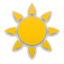
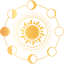
added moon data

diff --git a/actions/get_moonphase.py b/actions/get_moonphase.py
@@ -1,0 +1,19 @@
+"""
+Copyright 2016 Brocade Communications Systems, Inc.
+Licensed under the Apache License, Version 2.0 (the "License");
+you may not use this file except in compliance with the License.
+You may obtain a copy of the License at
+    http://www.apache.org/licenses/LICENSE-2.0
+Unless required by applicable law or agreed to in writing, software
+distributed under the License is distributed on an "AS IS" BASIS,
+WITHOUT WARRANTIES OR CONDITIONS OF ANY KIND, either express or implied.
+See the License for the specific language governing permissions and
+limitations under the License.
+"""
+
+from lib import action
+
+
+class GetMonnPhaseAction(action.BaseAction):
+    def run(self):
+        return str(self.moon['phase'])

diff --git a/actions/get_moonrise.py b/actions/get_moonrise.py
@@ -1,0 +1,19 @@
+"""
+Copyright 2016 Brocade Communications Systems, Inc.
+Licensed under the Apache License, Version 2.0 (the "License");
+you may not use this file except in compliance with the License.
+You may obtain a copy of the License at
+    http://www.apache.org/licenses/LICENSE-2.0
+Unless required by applicable law or agreed to in writing, software
+distributed under the License is distributed on an "AS IS" BASIS,
+WITHOUT WARRANTIES OR CONDITIONS OF ANY KIND, either express or implied.
+See the License for the specific language governing permissions and
+limitations under the License.
+"""
+
+from lib import action
+
+
+class GetMoonriseAction(action.BaseAction):
+    def run(self):
+        return str(self.moon['rise'])

diff --git a/actions/get_moonset.py b/actions/get_moonset.py
@@ -1,0 +1,19 @@
+"""
+Copyright 2016 Brocade Communications Systems, Inc.
+Licensed under the Apache License, Version 2.0 (the "License");
+you may not use this file except in compliance with the License.
+You may obtain a copy of the License at
+    http://www.apache.org/licenses/LICENSE-2.0
+Unless required by applicable law or agreed to in writing, software
+distributed under the License is distributed on an "AS IS" BASIS,
+WITHOUT WARRANTIES OR CONDITIONS OF ANY KIND, either express or implied.
+See the License for the specific language governing permissions and
+limitations under the License.
+"""
+
+from lib import action
+
+
+class GetMoonSetAction(action.BaseAction):
+    def run(self):
+        return str(self.moon['set'])

diff --git a/actions/get_noon.py b/actions/get_noon.py
@@ -1,0 +1,19 @@
+"""
+Copyright 2016 Brocade Communications Systems, Inc.
+Licensed under the Apache License, Version 2.0 (the "License");
+you may not use this file except in compliance with the License.
+You may obtain a copy of the License at
+    http://www.apache.org/licenses/LICENSE-2.0
+Unless required by applicable law or agreed to in writing, software
+distributed under the License is distributed on an "AS IS" BASIS,
+WITHOUT WARRANTIES OR CONDITIONS OF ANY KIND, either express or implied.
+See the License for the specific language governing permissions and
+limitations under the License.
+"""
+
+from lib import action
+
+
+class GetNoonAction(action.BaseAction):
+    def run(self):
+        return str(self.sun['noon'])

diff --git a/actions/lib/action.py b/actions/lib/action.py
@@ -16,6 +16,8 @@ from st2common.runners.base_action import Action
 import datetime
 from astral import LocationInfo
 from astral.sun import sun
+from astral import moon
+
 
 
 class BaseAction(Action):
@@ -29,3 +31,8 @@ class BaseAction(Action):
                             float(self._longitude))
 
         self.sun = sun(location.observer, date=datetime.datetime.now(), tzinfo=location.timezone)
+        self.moon = {
+            "rise": moon.moonrise(location.observer, datetime.datetime.now(), tzinfo=location.timezone),
+            "set": moon.moonset(location.observer, datetime.datetime.now(), tzinfo=location.timezone),
+            "phase": moon.phase
+        }

diff --git a/CHANGES.md b/CHANGES.md
@@ -1,5 +1,11 @@
 # Change Log
 
+## 1.0.3
+
+* Added `get_noon` action.
+* Added Moonset/MoonRise and Phase (no formatting).
+* Updated icon.
+
 ## 1.0.2
 
 * Fixed support for updated Astral
